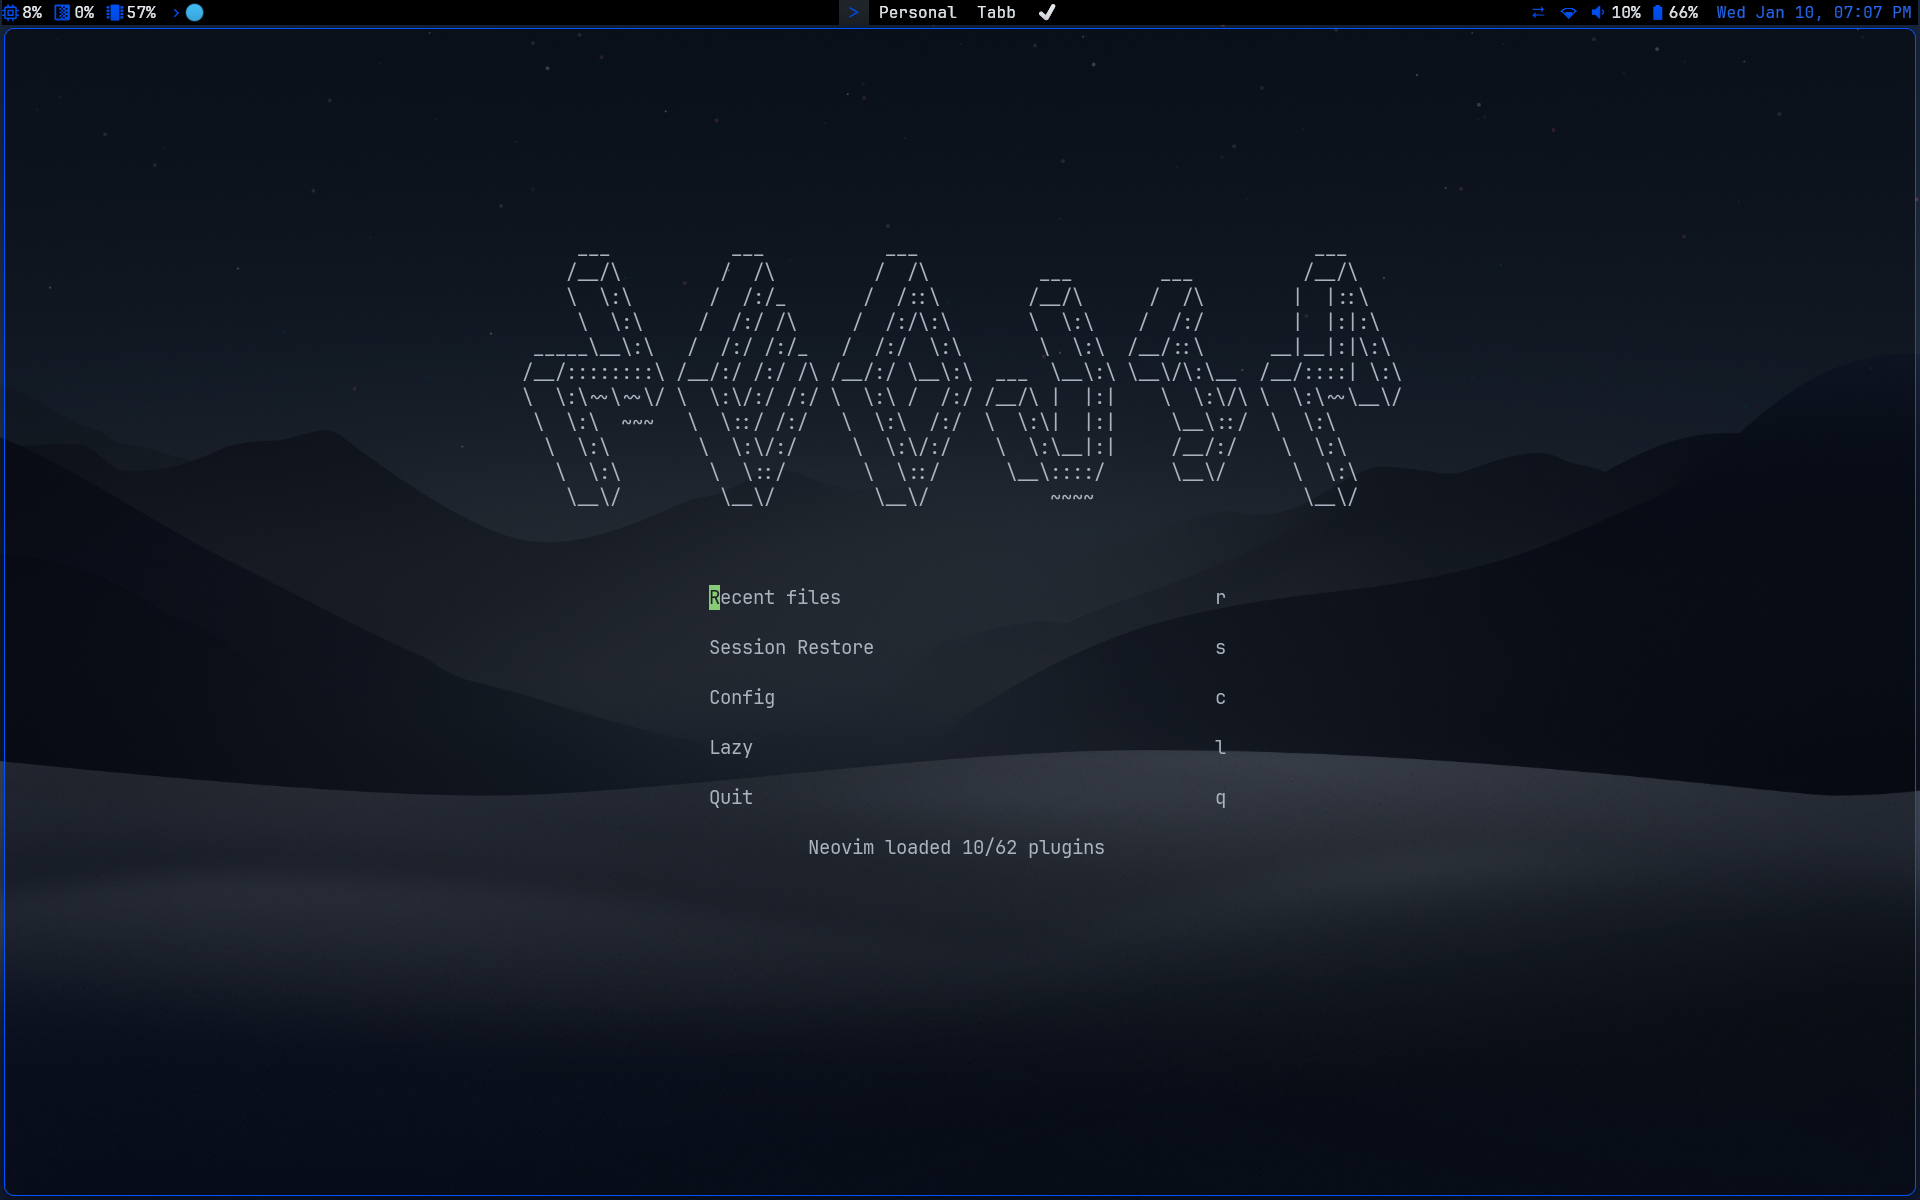
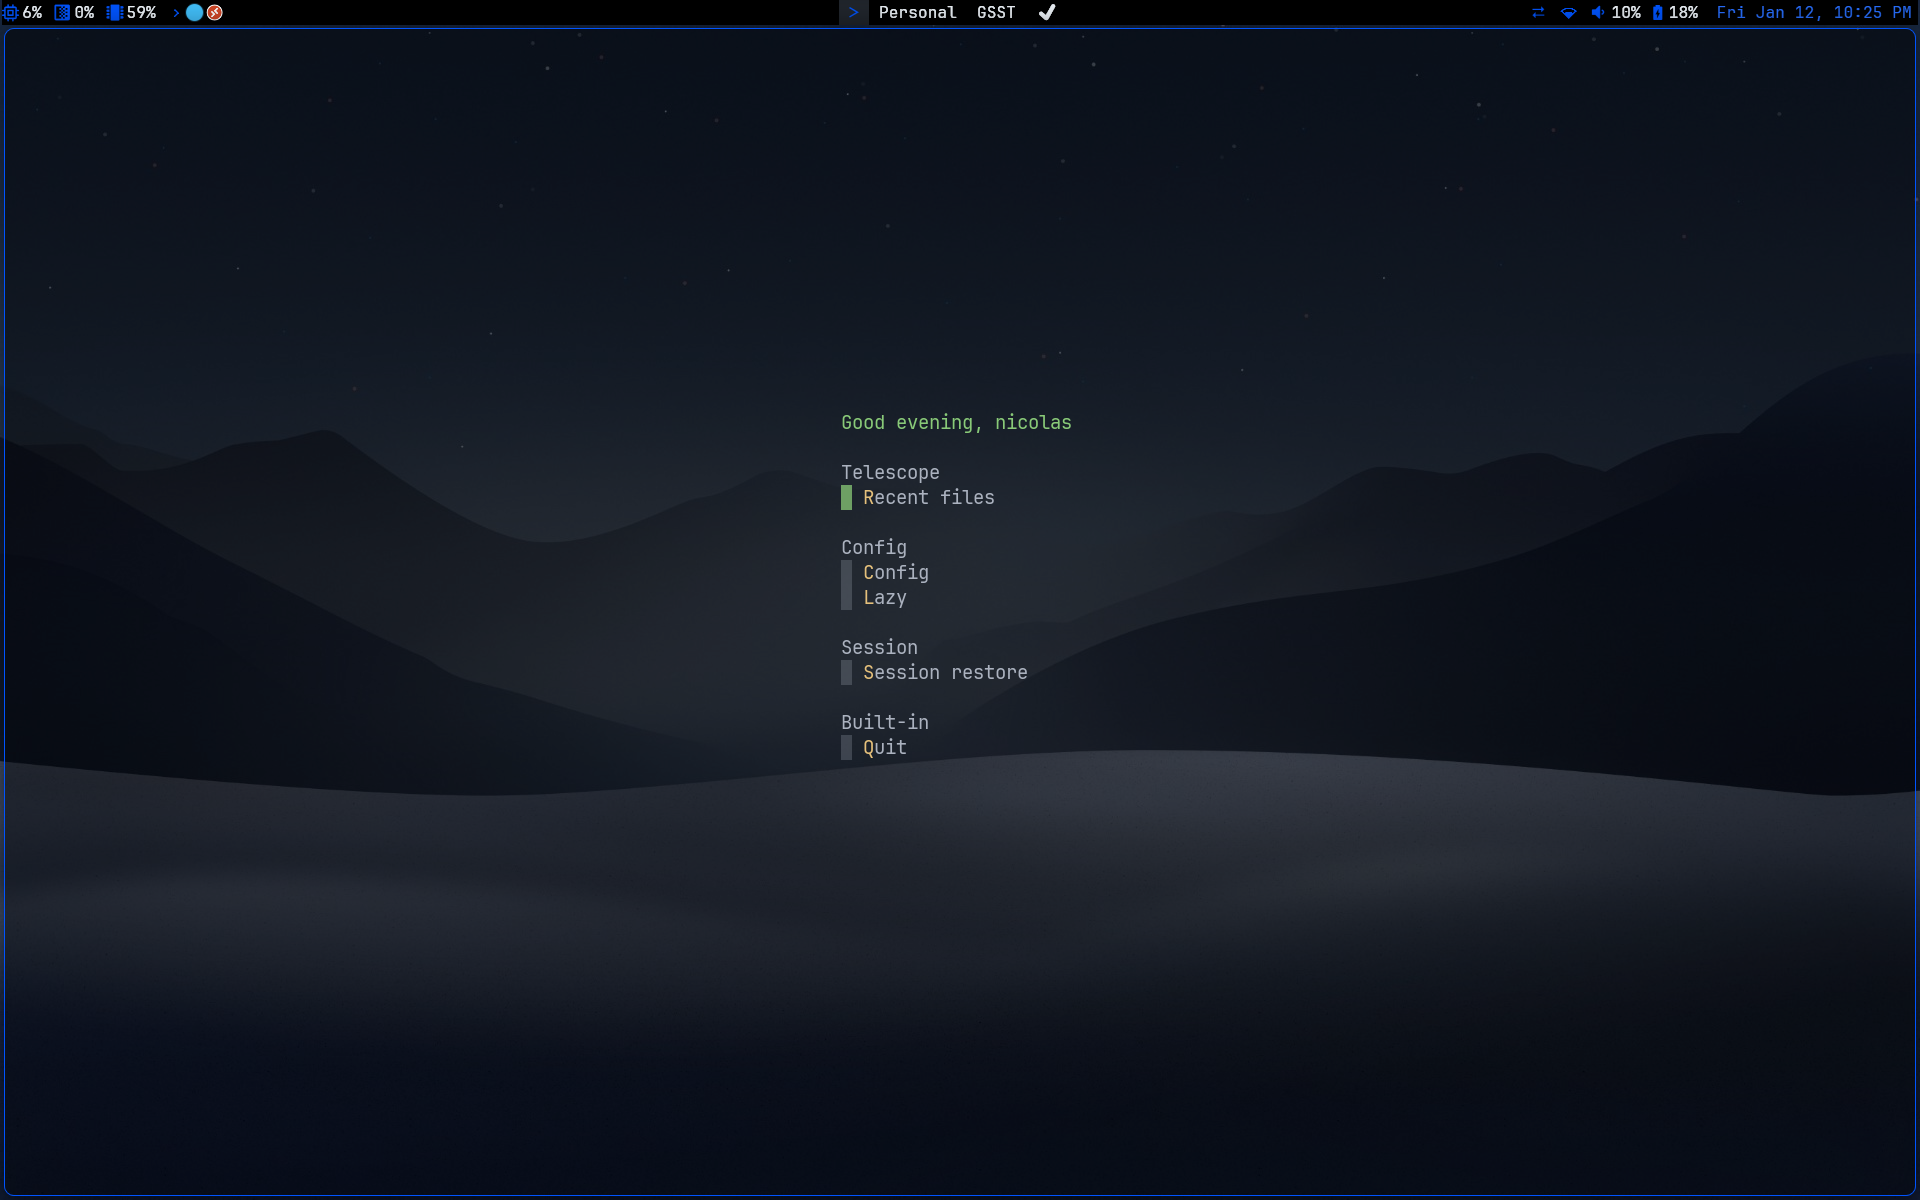
swapped picture

diff --git a/README.md b/README.md
@@ -2,16 +2,15 @@
 # My Neovim Config
 
 My Neovim config based on [LazyVim](https://www.lazyvim.org), with added plugins
-to extend its functionality.
+and LSPs to extend its functionality. Every configuration was done with
+transparency in mind. 
 
 If you don't understand how this works, you probably shouldn't use this
 configuration. First check out kickstart.nvim and understand how plugins,
 keymaps, LSPs, and the rest of the config works. Or just start with LazyVim like
 I did.
 
-  ![alpha](./assets/image1.png)
-  ![mini files](./assets/image3.png)
-  ![r markdown](./assets/image2.png)
+  ![start screen](./assets/image1.png)
 
 The configuration is structured so that:
 
@@ -55,6 +54,7 @@ a plugin config. See below:
 
 My favorite things about this configuration are (in no particular order):
 
+* transparent everything
 * the 90% of [LazyVim](https://www.lazyvim.org) that I don't have disabled
 * every single one of the things in `./lua/config/keymaps.lua`
 * the ~25 ms startup time (more like 60ms in regular Windows)
